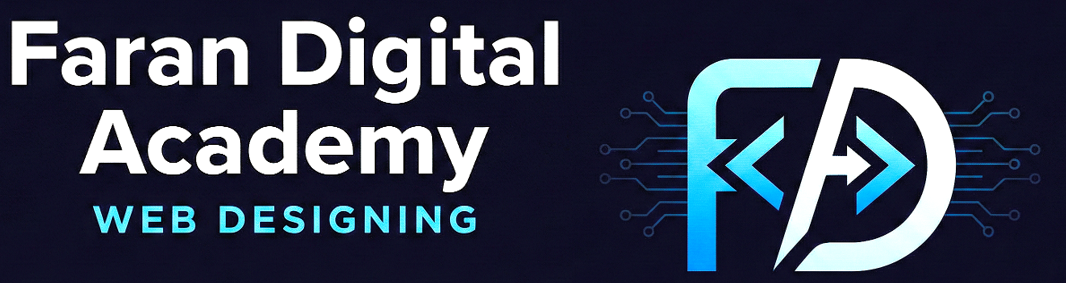
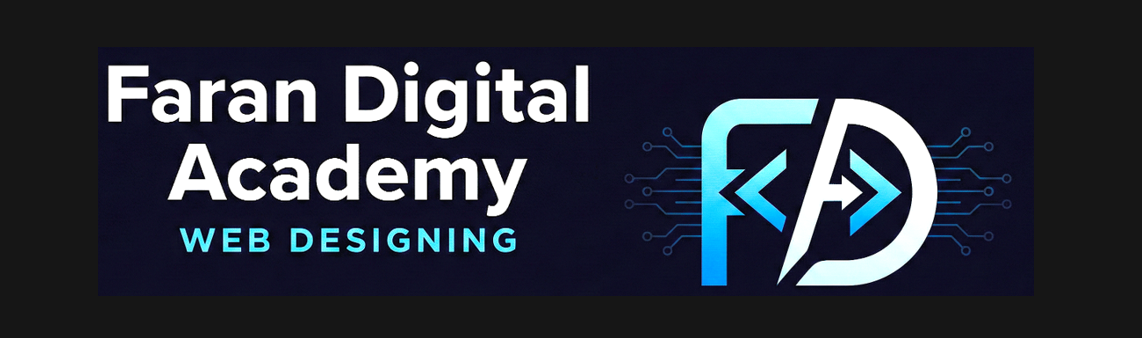
Update Academy section with latest changes

Changed region(s): [[0.0, 0.0565, 0.5263, 0.8481], [0.5263, 0.1979, 0.9906, 0.9611]]

diff --git a/index.html b/index.html
@@ -571,7 +571,7 @@
                     <div class="course-card">
                         <!-- Course Image -->
                         <div class="course-image-wrapper">
-                            <img src="images/Accademy bg.png" alt="Web Designing Course" class="course-image">
+                            <img src="images/accademy bg.png" alt="Web Designing Course" class="course-image">
                             <span class="course-level-badge">Beginner</span>
                         </div>
 
